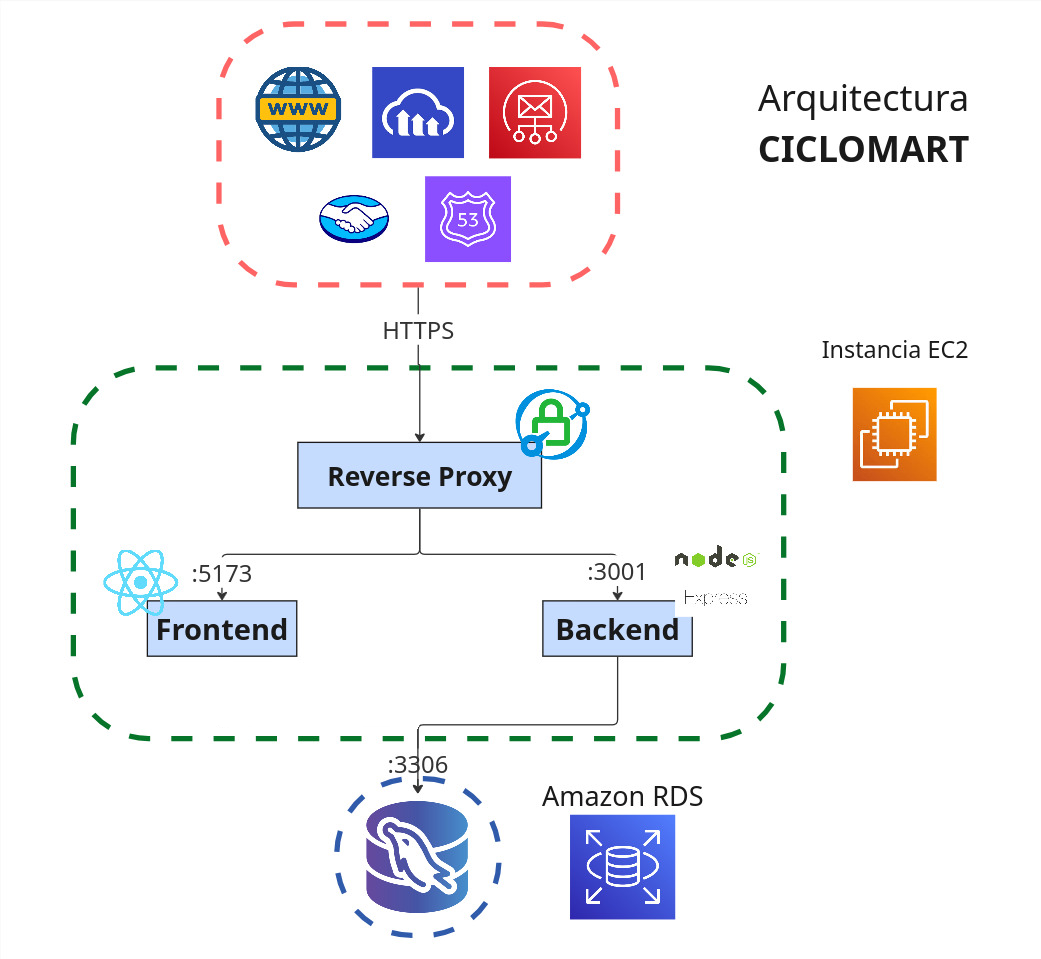
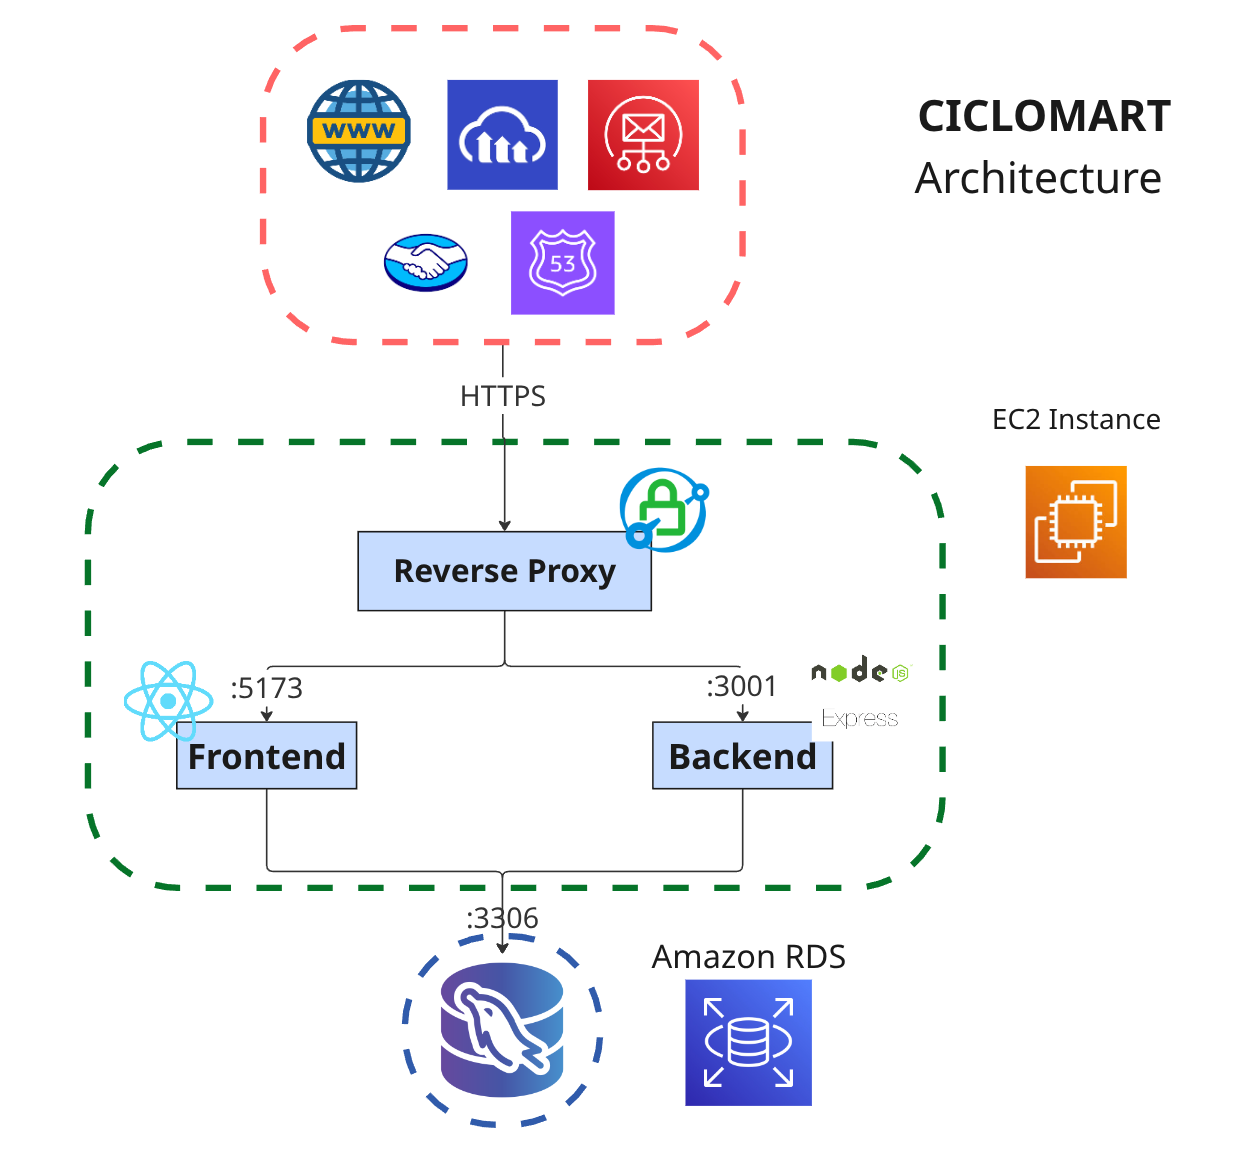
Includes english system architecture diagram

diff --git a/README.es.md b/README.es.md
@@ -13,13 +13,13 @@
 
 CicloMart es una aplicación web de compra-venta de bicicletas y repuestos de ciclismo. Ofrece una experiencia única, segura y confiable, al exigir documentación legal de propiedad a los vendedores. Los usuarios pueden encontrar exactamente lo que buscan usando filtros avanzados como grupos de transmisión, suspensión, peso, rines, frenos entre muchas otras características relevantes.
 
-## 🎬 Demo del proyecto
+## Demo del proyecto
 
 ![Demo de CicloMart](/src/docs/preview.gif)
 
 ## Arquitectura del sistema
 
-![Arquitectura del sistema](/src/docs/system_architecture.png)
+![Arquitectura del sistema](/src/docs/system_architecture_es.png)
 
 <!-- ### Instrucciones para el usuario -->
 

diff --git a/README.md b/README.md
@@ -13,7 +13,7 @@
 
 CicloMart is a web application for buying and selling bicycles and cycling spare parts. It offers a unique, secure, and reliable experience by requiring legal ownership documentation from sellers. Users can find exactly what they're looking for using advanced filters such as transmission groups, suspension, weight, rims, brakes, and many other relevant characteristics.
 
-## 🎬 Project Demo
+## Project Demo
 
 ![CicloMart demo](/src/docs/preview.gif)
 
